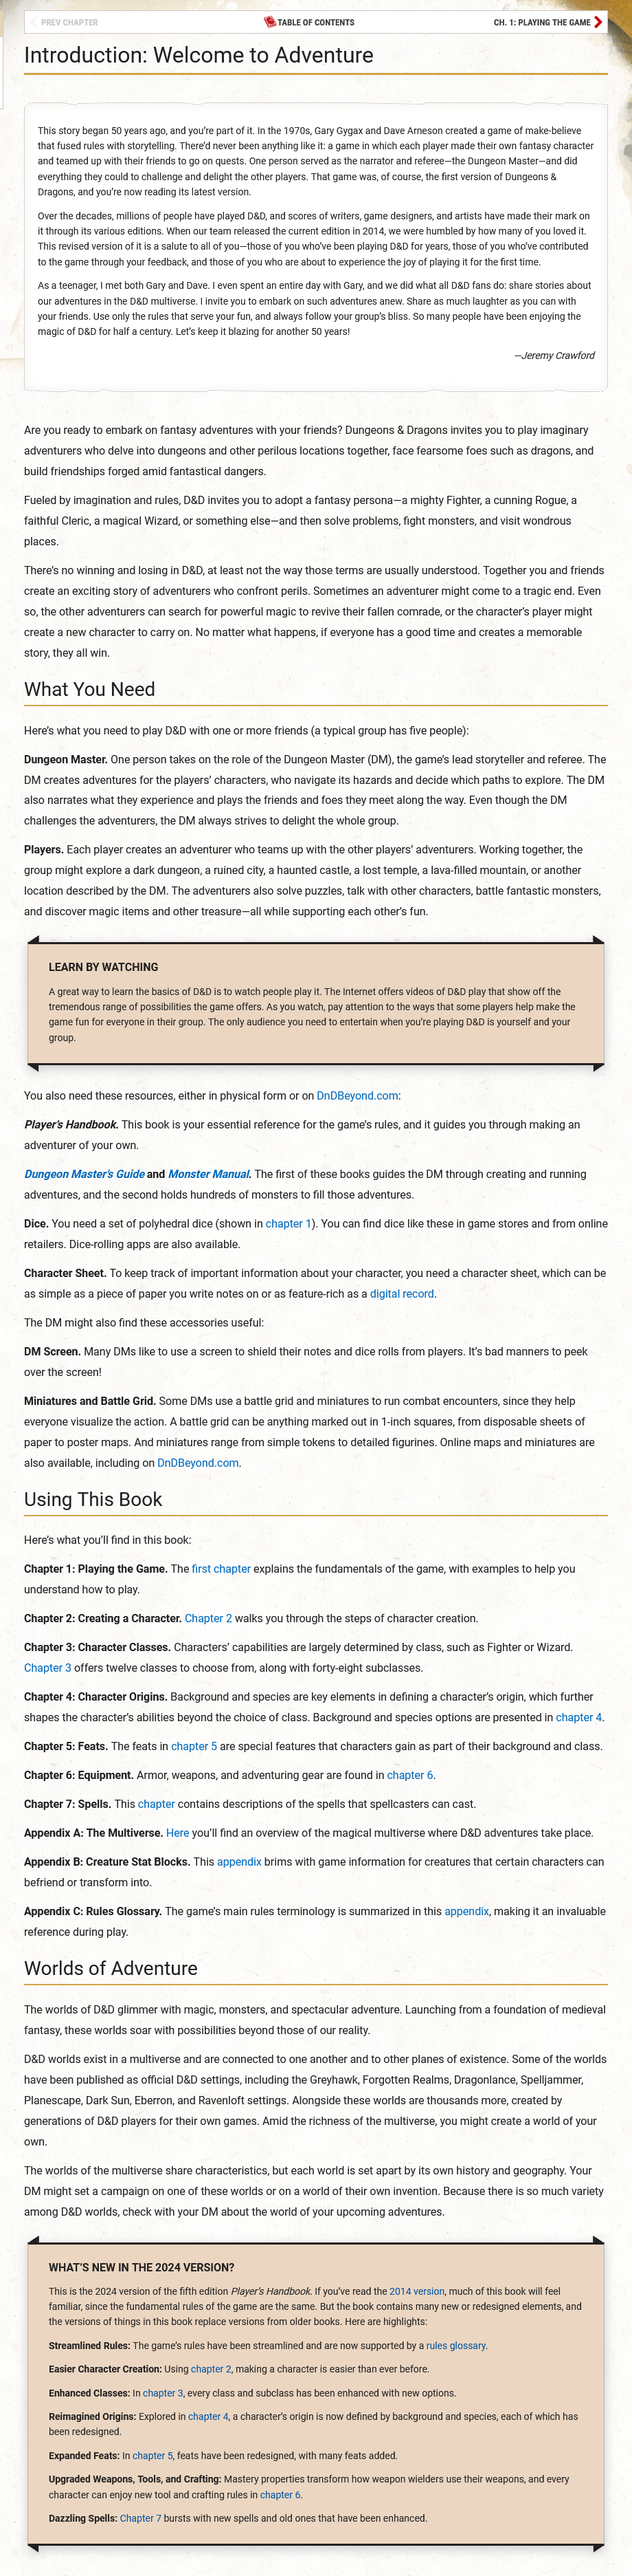
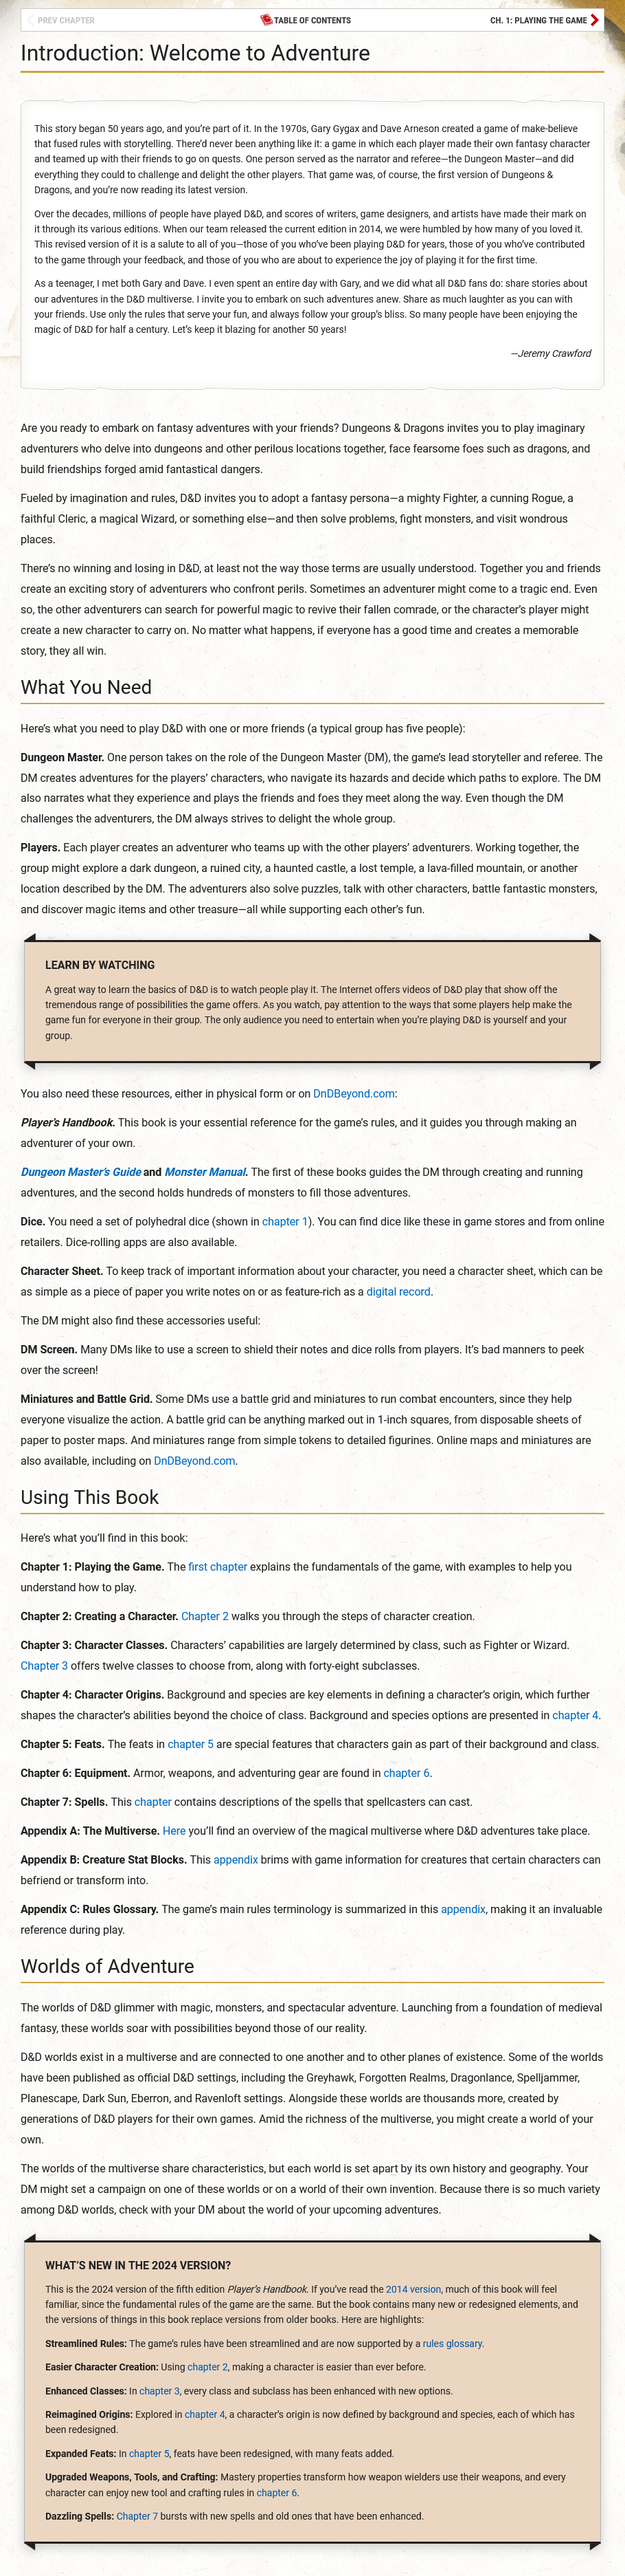
Add images and navigation UI to handbook
Add a set of page image assets and update the Player's Handbook layout to include a sticky, full-width transparent navigation bar with anchor buttons that jump to page image IDs. Insert image elements for pages 3–34 (many new images added) and update existing images 1–3. Update style.css with .transparent-nav and button styles to match the new navigation UI.

diff --git a/playershandbook.html b/playershandbook.html
@@ -27,15 +27,55 @@
         </div>
     </div>
 
-    <div class="container my-4">
-        <h2>Player's Handbook</h2>
+<!-- Full-width background -->
+<div class="p-2 sticky-top transparent-nav">
+    <div class="container">
+        <!-- Navigation buttons: 6 per row -->
+        <div class="row">
+            <!-- First Row: 6 Buttons -->
+            <div class="col-2 mb-2">
+                <a class="btn btn-sm btn-outline-primary w-100" href="#img1">Introduction: Welcome to Adventure</a>
+            </div>
+            <div class="col-2 mb-2">
+                <a class="btn btn-sm btn-outline-primary w-100" href="#img2">Chapter 1: Playing the Game</a>
+            </div>
+            <div class="col-2 mb-2">
+                <a class="btn btn-sm btn-outline-primary w-100" href="#img4">Chapter 2: Creating a Character</a>
+            </div>
+            <div class="col-2 mb-2">
+                <a class="btn btn-sm btn-outline-primary w-100" href="#img6">Chapter 3: Character Classes</a>
+            </div>
+            <div class="col-2 mb-2">
+                <a class="btn btn-sm btn-outline-primary w-100" href="#img10">Chapter 3: Character Classes (Continued)</a>
+            </div>
+            <div class="col-2 mb-2">
+                <a class="btn btn-sm btn-outline-primary w-100" href="#img15">Chapter 4: Character Origins</a>
+            </div>
 
-        <!-- Navigation buttons for images -->
-        <div class="btn-group mb-3" role="group" aria-label="Image navigation">
-            <a class="btn btn-outline-primary" href="#img1">1</a>
-            <a class="btn btn-outline-primary" href="#img2">2</a>
-            <a class="btn btn-outline-primary" href="#img3">3</a>
+            <!-- Second Row: 6 Buttons -->
+            <div class="col-2 mb-2">
+                <a class="btn btn-sm btn-outline-primary w-100" href="#img17">Chapter 5: Feats</a>
+            </div>
+            <div class="col-2 mb-2">
+                <a class="btn btn-sm btn-outline-primary w-100" href="#img19">Chapter 6: Equipment</a>
+            </div>
+            <div class="col-2 mb-2">
+                <a class="btn btn-sm btn-outline-primary w-100" href="#img21">Chapter 7: Spells</a>
+            </div>
+            <div class="col-2 mb-2">
+                <a class="btn btn-sm btn-outline-primary w-100" href="#img30">Appendix A: The Multiverse</a>
+            </div>
+            <div class="col-2 mb-2">
+                <a class="btn btn-sm btn-outline-primary w-100" href="#img31">Appendix B: Creature Stat Blocks</a>
+            </div>
+            <div class="col-2 mb-2">
+                <a class="btn btn-sm btn-outline-primary w-100" href="#img33">Rules Glossary</a>
+            </div>
         </div>
+    </div>
+</div>
+
+    <div class="container my-4">
 
         <!-- Images: centered at natural width. Each has an anchor id so buttons jump to them -->
         <div>
@@ -46,6 +86,99 @@
         </div>
         <div>
             <img src="images/3.png" id="img3" alt="Page 2">
+        </div>
+        <div>
+            <img src="images/4.png" id="img4" alt="Page 3">
+        </div>
+        <div>
+            <img src="images/5.png" id="img5" alt="Page 3">
+        </div>
+        <div>
+            <img src="images/6.png" id="img6" alt="Page 4">
+        </div>
+        <div>
+            <img src="images/7.png" id="img7" alt="Page 4">
+        </div>
+        <div>
+            <img src="images/8.png" id="img8" alt="Page 4">
+        </div>
+        <div>
+            <img src="images/9.png" id="img9" alt="Page 4">
+        </div>
+        <div>
+            <img src="images/10.png" id="img10" alt="Page 5">
+        </div>
+        <div>
+            <img src="images/11.png" id="img11" alt="Page 5">
+        </div>
+        <div>
+            <img src="images/12.png" id="img12" alt="Page 5">
+        </div>
+        <div>
+            <img src="images/13.png" id="img13" alt="Page 5">
+        </div>
+        <div>
+            <img src="images/14.png" id="img14" alt="Page 5">
+        </div>
+        <div>
+            <img src="images/15.png" id="img15" alt="Page 6">
+        </div>
+        <div>
+            <img src="images/16.png" id="img16" alt="Page 6">
+        </div>
+        <div>
+            <img src="images/17.png" id="img17" alt="Page 7">
+        </div>
+        <div>
+            <img src="images/18.png" id="img18" alt="Page 7">
+        </div>
+        <div>
+            <img src="images/19.png" id="img19" alt="Page 8">
+        </div>
+        <div>
+            <img src="images/20.png" id="img20" alt="Page 8">
+        </div>
+        <div>
+            <img src="images/21.png" id="img21" alt="Page 9">
+        </div>
+        <div>
+            <img src="images/22.png" id="img22" alt="Page 10">
+        </div>
+        <div>
+            <img src="images/23.png" id="img23" alt="Page 10">
+        </div>
+        <div>
+            <img src="images/24.png" id="img24" alt="Page 10">
+        </div>
+        <div>
+            <img src="images/25.png" id="img25" alt="Page 10">
+        </div>
+        <div>
+            <img src="images/26.png" id="img26" alt="Page 10">
+        </div>
+        <div>
+            <img src="images/27.png" id="img27" alt="Page 10">
+        </div>
+        <div>
+            <img src="images/28.png" id="img28" alt="Page 10">
+        </div>
+        <div>
+            <img src="images/29.png" id="img29" alt="Page 10">
+        </div>
+        <div>
+            <img src="images/30.png" id="img30" alt="Page 11">
+        </div>
+        <div>
+            <img src="images/31.png" id="img31" alt="Page 12">
+        </div>
+        <div>
+            <img src="images/32.png" id="img32" alt="Page 12">
+        </div>
+        <div>
+            <img src="images/33.png" id="img33" alt="Page 13">
+        </div>
+        <div>
+            <img src="images/34.png" id="img34" alt="Page 13">
         </div>
     </div>
 

diff --git a/style.css b/style.css
@@ -22,3 +22,34 @@ img {
     margin-left: auto;
     margin-right: auto;
 }
+
+.transparent-nav {
+    background-color: rgba(255, 255, 255, 0.8); /* or whatever transparent bg you want */
+}
+
+.transparent-nav .btn {
+    opacity: 1 !important;
+    background-color: white; /* or your preferred button color */
+}
+
+.transparent-nav .btn-outline-primary {
+    color: #223832;
+    border-color: #223832;
+}
+
+.transparent-nav .btn-outline-primary:hover {
+    color: #ffffff;
+    background-color: #223832;
+    border-color: #223832;
+}
+
+.btn-light {
+    color: #223832;
+    border-color: #223832;
+}
+
+.btn-light:hover {
+    color: #ffffff;
+    background-color: #223832;
+    border-color: #223832;
+}
